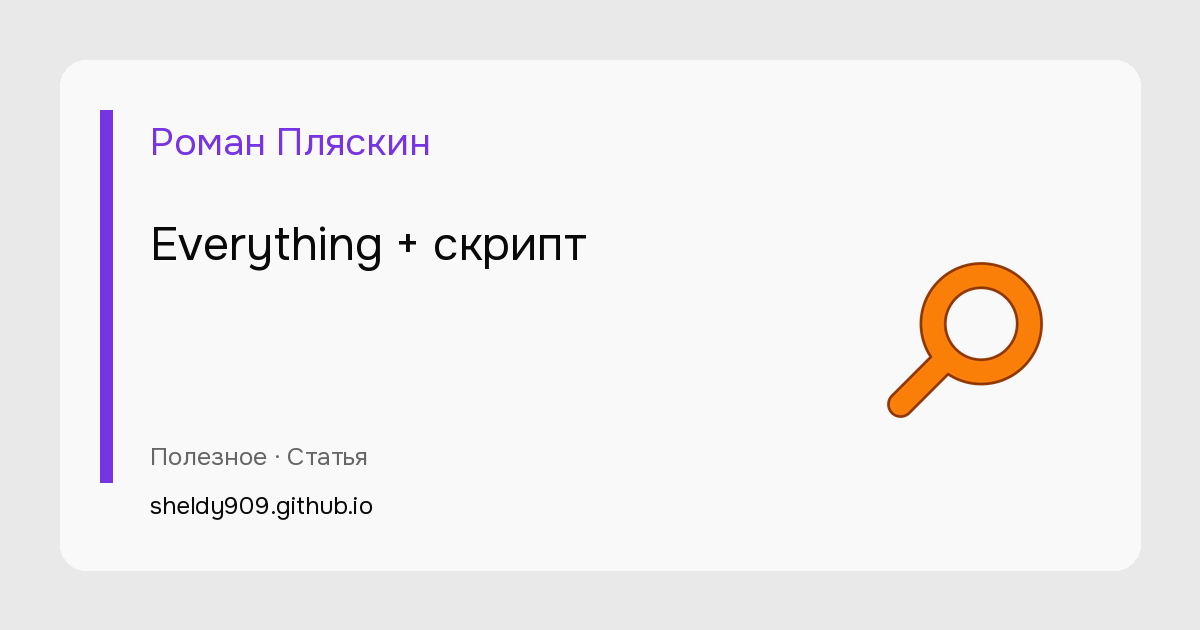
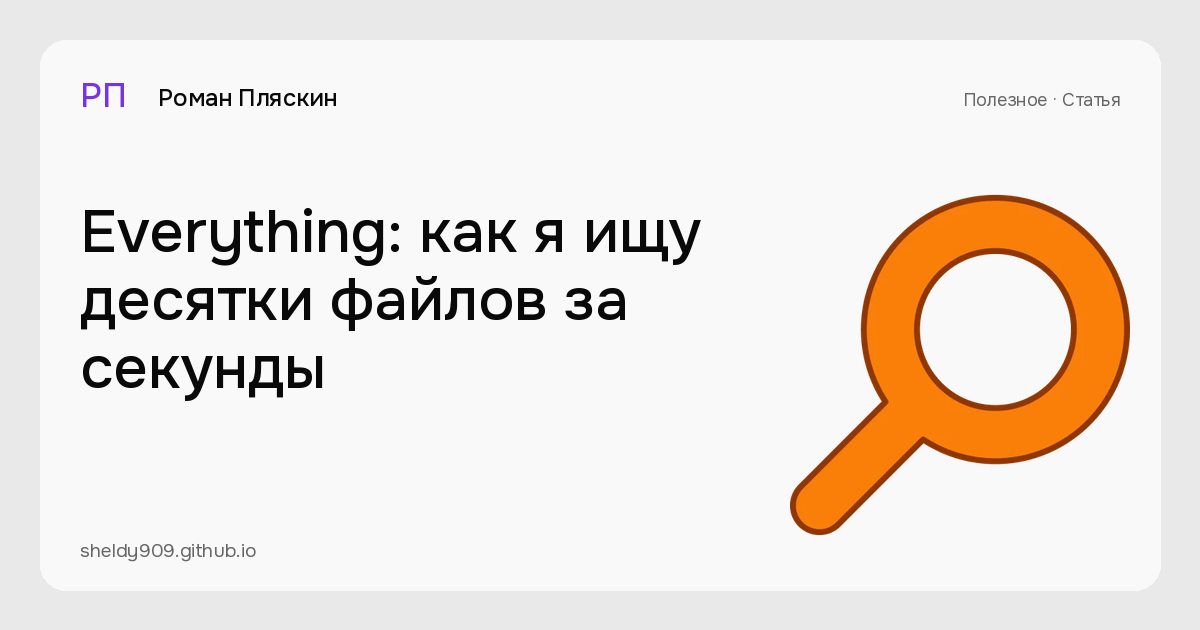
Обновление

diff --git a/cv/index.html b/cv/index.html
@@ -7,10 +7,10 @@
 <link rel="canonical" href="https://sheldy909.github.io/cv/">
 <meta property="og:type" content="website"><meta property="og:locale" content="ru_RU"><meta property="og:site_name" content="Роман Пляскин">
 <meta property="og:title" content="Резюме — Роман Пляскин"><meta property="og:description" content="Опыт работы, образование и контакты Романа Пляскина — графического дизайнера."><meta property="og:url" content="https://sheldy909.github.io/cv/">
-<meta property="og:image" content="https://sheldy909.github.io/og-image.png"><meta property="og:image:width" content="1200"><meta property="og:image:height" content="630"><meta property="og:image:alt" content="Роман Пляскин — графический дизайнер">
-<meta name="twitter:card" content="summary_large_image"><meta name="twitter:title" content="Резюме — Роман Пляскин"><meta name="twitter:description" content="Опыт работы, образование и контакты Романа Пляскина — графического дизайнера."><meta name="twitter:image" content="https://sheldy909.github.io/og-image.png">
+<meta property="og:image" content="https://sheldy909.github.io/assets/og/cv.png?v=2def9b8975"><meta property="og:image:width" content="1200"><meta property="og:image:height" content="630"><meta property="og:image:alt" content="Резюме — Роман Пляскин">
+<meta name="twitter:card" content="summary_large_image"><meta name="twitter:title" content="Резюме — Роман Пляскин"><meta name="twitter:description" content="Опыт работы, образование и контакты Романа Пляскина — графического дизайнера."><meta name="twitter:image" content="https://sheldy909.github.io/assets/og/cv.png?v=2def9b8975">
 <link rel="icon" href="/favicon.svg?v=8acaf1055971" type="image/svg+xml"><link rel="apple-touch-icon" href="/apple-touch-icon.png?v=e080b84c06">
-<meta name="theme-color" content="#e9e9e9"><link rel="stylesheet" href="/site.0860960565e0.css"><script defer src="/site.811ce50bc063.js"></script>
+<meta name="theme-color" content="#e9e9e9"><link rel="stylesheet" href="/site.169d4aabdb8a.css"><script defer src="/site.811ce50bc063.js"></script>
 </head><body id="top"><a class="skip-link" href="#content">Перейти к содержимому</a><div class="main-wrapper"><div class="main"><header class="div header">
 <a class="link-block person" href="/">
 <div class="image person-photo">
@@ -37,10 +37,10 @@
 </p>
 </div>
 <div class="div body-gallery">
-<div class="image cv-photo">
-<img alt="Фото в резюме" class="image__img" src="/assets/095f160c035d3f3b30.webp" width="1440" height="938" decoding="async" loading="eager" srcset="/assets/095f160c035d3f3b30-480.webp 480w, /assets/095f160c035d3f3b30-960.webp 960w, /assets/095f160c035d3f3b30.webp 1440w" sizes="(max-width:1199px) 92vw, 59vw">
+
+<div class="div cv-summary"><div class="image cv-photo">
+<img alt="Фото в резюме" class="image__img" decoding="async" height="938" loading="eager" sizes="(max-width:1199px) 92vw, 59vw" src="/assets/095f160c035d3f3b30.webp" srcset="/assets/095f160c035d3f3b30-480.webp 480w, /assets/095f160c035d3f3b30-960.webp 960w, /assets/095f160c035d3f3b30.webp 1440w" width="1440"/>
 </div>
-<div class="div cv-summary">
 <div class="div card-cv">
 <div class="div cv-identity">
 <h2 class="text text-accent cv-profile-title">
@@ -59,7 +59,6 @@
 <span class="text-block-wrap-div">26 лет</span>
 </div>
 </div>
-
 <div class="div cv-bio">
 <div class="text txt">
 <span class="text-block-wrap-div">Проживание</span>
@@ -68,7 +67,6 @@
 <span class="text-block-wrap-div">Воронеж</span>
 </div>
 </div>
-
 <div class="div cv-bio">
 <div class="text txt">
 <span class="text-block-wrap-div">Контакты</span>
@@ -87,6 +85,8 @@
 </div>
 </div>
 </div>
+
+</div>
 <div class="div card-cv">
 <h2 class="text cv-section-title">
 <span class="text-block-wrap-div">О себе</span>
@@ -100,7 +100,6 @@
 </div>
 </div>
 </div>
-</div>
 <div class="div card-cv">
 <h2 class="text cv-section-title">
 <span class="text-block-wrap-div">Опыт работы</span>
@@ -108,9 +107,9 @@
 <div class="div cv-entry">
 <div class="div cv-entry-heading">
 <h3 class="text cv-entry-title">
-<span class="text-block-wrap-div">Группа компаний «Самсон»</span>
+<span class="text-block-wrap-div">Старший художник-дизайнер</span>
 </h3>
-<div class="div cv-entry-meta">
+<div class="div cv-entry-meta"><span class="cv-company">Группа компаний «Самсон»</span>
 <div class="text text-muted card-cv-txt">
 <span class="text-block-wrap-div">Декабрь 2022 — Настоящее время</span>
 </div>
@@ -119,9 +118,7 @@
 </div>
 </div>
 </div>
-<div class="text cv-post">
-<span class="text-block-wrap-div">Старший художник-дизайнер</span>
-</div>
+
 <div class="div paragraph">
 <div class="text txt">
 <span class="text-block-wrap-div">Начал работу в компании в роли дизайнера карточек для маркетплейсов, впоследствии вырос до старшего дизайнера, после чего круг моих обязанностей заметно расширился. Взял на себя часть организационных задач: разработал эффективные шаблоны, значительно ускорявшие выполнение проектов, реорганизовал систему хранения данных, внедрив логичную структуру папок, что улучшило поиск и работу с файлами, а также написал внутреннюю памятку для дизайнеров — с ключевыми моментами, которые помогают быстро включиться в работу. Активно внедрял нейросети в рабочие процессы: с их помощью писал скрипты для Photoshop и разрабатывал внутренние сайты для удобной отчётности и работы с инструментами — всё это заметно сократило рутину внутри команды. Этот опыт сформировал навык управления командой и выстраивания внутренних процессов.</span>
@@ -147,9 +144,9 @@
 <div class="div cv-entry">
 <div class="div cv-entry-heading">
 <h3 class="text cv-entry-title">
-<span class="text-block-wrap-div">Воронежский городской портал 36on.ru</span>
+<span class="text-block-wrap-div">Графический дизайнер</span>
 </h3>
-<div class="div cv-entry-meta">
+<div class="div cv-entry-meta"><span class="cv-company">Воронежский городской портал 36on.ru</span>
 <div class="text text-muted card-cv-txt">
 <span class="text-block-wrap-div">Фриланс с 2020 года</span>
 </div>
@@ -158,9 +155,7 @@
 </div>
 </div>
 </div>
-<div class="text cv-post">
-<span class="text-block-wrap-div">Графический дизайнер</span>
-</div>
+
 <div class="div paragraph">
 <div class="text txt">
 <span class="text-block-wrap-div">Начинал с разработки баннеров для сайта. Со временем круг задач расширился до комплексного дизайна для крупных городских мероприятий и госструктур Воронежской области. Работал в двух направлениях параллельно: цифровое — рекламные баннеры для сайтов и соцсетей, и печатное — листовки, плакаты, баннеры, таблички, мерч и др.</span>
@@ -177,9 +172,9 @@
 <div class="div cv-entry">
 <div class="div cv-entry-heading">
 <h3 class="text cv-entry-title">
-<span class="text-block-wrap-div">Автолегион-31</span>
+<span class="text-block-wrap-div">Графический дизайнер</span>
 </h3>
-<div class="div cv-entry-meta">
+<div class="div cv-entry-meta"><span class="cv-company">Автолегион-31</span>
 <div class="text text-muted card-cv-txt">
 <span class="text-block-wrap-div">Фриланс с 2014 года</span>
 </div>
@@ -188,9 +183,7 @@
 </div>
 </div>
 </div>
-<div class="text cv-post">
-<span class="text-block-wrap-div">Графический дизайнер</span>
-</div>
+
 <div class="div paragraph">
 <div class="text txt">
 <span class="text-block-wrap-div">С этого места начался мой профессиональный путь в дизайне. Работал с рекламным агентством, выполняя широкий спектр задач: разработка листовок, визиток, баннеров, вывесок и подготовка макетов к печати. Получил практический опыт полного цикла работы — от общения с клиентом до подготовки финальных файлов для типографии.</span>

diff --git a/site.169d4aabdb8a.css b/site.169d4aabdb8a.css
@@ -75,7 +75,7 @@ a:hover{text-decoration:none;}
 .cv-contacts{width: auto;display: flex;flex-direction: column;row-gap: calc(var(--layout-unit) * 0.47);align-items: flex-end;}
 .contact-link:hover{color: var(--color-accent);}
 .cv-entry-group{display: flex;flex-direction: column;}
-.cv-entry-meta{display: flex;flex-direction: column;}
+.cv-entry-meta{display:flex;flex-direction:row;align-items:center;flex-wrap:wrap;}
 .cv-entry-heading{display: flex;flex-direction: column;}
 .cv-entry{display: flex;align-items: flex-start;flex-direction: column;}
 @media     (max-width:1199px) {.cv-summary{flex-direction: column;row-gap: calc(var(--layout-unit) * 0.94);}}
@@ -341,12 +341,12 @@ body,.main{font-size:var(--fs-body);}
 .about-column.body{max-width:var(--read-width);}
 @media (max-width:767px){.site-navigation.header-menu{width:100%;gap:12px 16px;}}
 /* Stage 2: CV roles match semantic heading levels; text links are explicit. */
-:root{--fs-cv-section:1.5rem;--fs-cv-entry:1.25rem;--fs-cv-group:1rem;}
+:root{--fs-cv-section:var(--fs-prose-h2);--fs-cv-entry:var(--fs-prose-h3);--fs-cv-group:var(--fs-ui);}
 .about-column .cv-section-title{font-size:var(--fs-cv-section);font-weight:500;line-height:1.3;margin:0;}
 .about-column .cv-entry-title{font-size:var(--fs-cv-entry);font-weight:500;line-height:1.3;margin:0;}
 .about-column .cv-group-title{font-size:var(--fs-cv-group);font-weight:500;line-height:1.4;margin:0;}
-.cv-profile-title{font-size:var(--fs-h2);font-weight:500;line-height:1.25;}
-main a.content-link{color:var(--color-accent);text-decoration-line:underline;text-decoration-thickness:1px;text-underline-offset:.2em;}
+.cv-profile-title{font-size:var(--fs-prose-h2);font-weight:500;line-height:1.25;}
+main a.content-link{color:var(--color-accent);text-decoration:none;}
 main a.content-link:hover{color:var(--color-accent-hover);}
 .cv-list{display:block;list-style:none;margin:0;padding:0;}
 .cv-list li{position:relative;padding-inline-start:1.25em;}
@@ -421,17 +421,17 @@ video::-webkit-media-controls,video::-webkit-media-controls-start-playback-butto
 .main>.footer{width:100%;max-width:var(--content-width);margin-inline:auto;}
 @media (max-width:767px){:root{--read-width:100%;}}
 /* Shared proximity: inside a group < between groups < between sections. */
-:root{--gap-related:clamp(12px,.833333vw,16px);--gap-paragraph:clamp(16px,1.111111vw,24px);--gap-group:clamp(24px,2.222222vw,40px);--gap-section:clamp(48px,4.444444vw,80px);}
+:root{--gap-related:clamp(8px,.625vw,12px);--gap-paragraph:clamp(14px,1.111111vw,20px);--gap-group:clamp(20px,1.666667vw,28px);--gap-section:clamp(32px,2.777778vw,48px);}
 .body-h,.main>.body>.body-h:not(.detail-heading),.home-page .home-intro,.main>.detail-layout>.detail-heading{gap:var(--gap-related);}
 .main>.body:not(.detail-layout),.body-gallery,.main>.detail-layout,.home-page .home-section:not(.home-intro){gap:var(--gap-group);}
-.home-page>.body,.about-column .body-gallery{gap:var(--gap-section);}
-.detail-more{gap:var(--gap-group);}
+.home-page>.body{gap:var(--gap-section);}
+.detail-more{gap:var(--gap-paragraph);}
 .detail-more{margin-top:calc(var(--gap-section) - var(--gap-group));padding-top:var(--gap-group);border-top:1px solid var(--color-divider);}
 .main>.footer{margin-top:var(--gap-section);}
-.paragraph,.cv-entry,.cv-summary,.about-column .cv-summary,.about-column .card-cv>div:not(.text){gap:var(--gap-paragraph);}
+.paragraph,.cv-entry,.about-column .card-cv>div:not(.text){gap:var(--gap-paragraph);}
 .cv-entry-heading,.cv-entry-group,.cv-entry-meta,.about-column .card-cv .paragraph,.about-column .paragraph>div:not(.text),.about-column .cv-identity,.card-text-useful{gap:var(--gap-related);}
 .about-column .cv-bio{gap:var(--gap-paragraph);}
-.card-cv>.cv-entry+.cv-entry{margin-top:var(--gap-group);}
+.card-cv>.cv-entry+.cv-entry{margin-top:var(--gap-paragraph);}
 .about-column .cv-section-title,.about-column .cv-entry-title,.about-column .cv-group-title{color:var(--color-text);font-weight:500;}
 .about-column .cv-post{color:var(--color-text);}
 .case>.text-block-wrap-div>*{margin-block:0;}
@@ -441,3 +441,11 @@ video::-webkit-media-controls,video::-webkit-media-controls-start-playback-butto
 .case>.text-block-wrap-div>:is(h2,h3)+*{margin-top:var(--gap-related);}
 .case>.text-block-wrap-div>figure{margin-top:var(--gap-group);margin-inline:auto;}
 .case>.text-block-wrap-div>:first-child{margin-top:0;}
+.about-column .body-gallery{gap:var(--gap-group);}
+.about-column .cv-summary{display:flex;flex-direction:column;gap:var(--gap-related);}
+.about-column .cv-details{gap:var(--gap-related);}
+.about-column .cv-bio>.text:first-child{color:var(--color-text-muted);font-size:var(--fs-caption);}
+.about-column .cv-contacts .contact-link{font-size:var(--fs-ui);text-decoration:none;}
+.about-column .cv-entry-meta{gap:var(--gap-related);font-size:var(--fs-caption);line-height:1.4;}
+.cv-company{display:inline-block;padding:.25em .7em;border-radius:var(--radius);background:var(--color-bg);color:var(--color-text);font-size:var(--fs-caption);line-height:1.4;}
+.card-image-useful{max-height:200px;}

diff --git a/portfolio/seriya-detskoj-kancelyarii-superkoty/index.html b/portfolio/seriya-detskoj-kancelyarii-superkoty/index.html
@@ -7,10 +7,10 @@
 <link rel="canonical" href="https://sheldy909.github.io/portfolio/seriya-detskoj-kancelyarii-superkoty/">
 <meta property="og:type" content="website"><meta property="og:locale" content="ru_RU"><meta property="og:site_name" content="Роман Пляскин">
 <meta property="og:title" content="Серия детской канцелярии «СуперКоты» — Роман Пляскин"><meta property="og:description" content="Дизайн серии детской канцелярии «СуперКоты»: персонажи, оформление и готовые изделия."><meta property="og:url" content="https://sheldy909.github.io/portfolio/seriya-detskoj-kancelyarii-superkoty/">
-<meta property="og:image" content="https://sheldy909.github.io/assets/og/seriya-detskoj-kancelyarii-superkoty.png"><meta property="og:image:width" content="1200"><meta property="og:image:height" content="630"><meta property="og:image:alt" content="Серия детской канцелярии «СуперКоты»">
-<meta name="twitter:card" content="summary_large_image"><meta name="twitter:title" content="Серия детской канцелярии «СуперКоты» — Роман Пляскин"><meta name="twitter:description" content="Дизайн серии детской канцелярии «СуперКоты»: персонажи, оформление и готовые изделия."><meta name="twitter:image" content="https://sheldy909.github.io/assets/og/seriya-detskoj-kancelyarii-superkoty.png">
+<meta property="og:image" content="https://sheldy909.github.io/assets/og/seriya-detskoj-kancelyarii-superkoty.png?v=5329af23a5"><meta property="og:image:width" content="1200"><meta property="og:image:height" content="630"><meta property="og:image:alt" content="Серия детской канцелярии «СуперКоты» — Роман Пляскин">
+<meta name="twitter:card" content="summary_large_image"><meta name="twitter:title" content="Серия детской канцелярии «СуперКоты» — Роман Пляскин"><meta name="twitter:description" content="Дизайн серии детской канцелярии «СуперКоты»: персонажи, оформление и готовые изделия."><meta name="twitter:image" content="https://sheldy909.github.io/assets/og/seriya-detskoj-kancelyarii-superkoty.png?v=5329af23a5">
 <link rel="icon" href="/favicon.svg?v=8acaf1055971" type="image/svg+xml"><link rel="apple-touch-icon" href="/apple-touch-icon.png?v=e080b84c06">
-<meta name="theme-color" content="#e9e9e9"><link rel="stylesheet" href="/site.0860960565e0.css"><script defer src="/site.811ce50bc063.js"></script>
+<meta name="theme-color" content="#e9e9e9"><link rel="stylesheet" href="/site.169d4aabdb8a.css"><script defer src="/site.811ce50bc063.js"></script>
 </head><body id="top"><a class="skip-link" href="#content">Перейти к содержимому</a><div class="main-wrapper"><div class="main"><header class="div header">
 <a class="link-block person" href="/">
 <div class="image person-photo">

diff --git a/portfolio/vitrina-magazina-na-yam---gk-samson/index.html b/portfolio/vitrina-magazina-na-yam---gk-samson/index.html
@@ -7,10 +7,10 @@
 <link rel="canonical" href="https://sheldy909.github.io/portfolio/vitrina-magazina-na-yam---gk-samson/">
 <meta property="og:type" content="website"><meta property="og:locale" content="ru_RU"><meta property="og:site_name" content="Роман Пляскин">
 <meta property="og:title" content="Витрина магазина на ЯМ — ГК САМСОН — Роман Пляскин"><meta property="og:description" content="Оформление витрины магазина ГК «Самсон» на Яндекс Маркете: визуальные материалы проекта."><meta property="og:url" content="https://sheldy909.github.io/portfolio/vitrina-magazina-na-yam---gk-samson/">
-<meta property="og:image" content="https://sheldy909.github.io/assets/og/vitrina-magazina-na-yam---gk-samson.png"><meta property="og:image:width" content="1200"><meta property="og:image:height" content="630"><meta property="og:image:alt" content="Витрина магазина на ЯМ — ГК САМСОН">
-<meta name="twitter:card" content="summary_large_image"><meta name="twitter:title" content="Витрина магазина на ЯМ — ГК САМСОН — Роман Пляскин"><meta name="twitter:description" content="Оформление витрины магазина ГК «Самсон» на Яндекс Маркете: визуальные материалы проекта."><meta name="twitter:image" content="https://sheldy909.github.io/assets/og/vitrina-magazina-na-yam---gk-samson.png">
+<meta property="og:image" content="https://sheldy909.github.io/assets/og/vitrina-magazina-na-yam---gk-samson.png?v=b093cd1c44"><meta property="og:image:width" content="1200"><meta property="og:image:height" content="630"><meta property="og:image:alt" content="Витрина магазина на ЯМ — ГК САМСОН — Роман Пляскин">
+<meta name="twitter:card" content="summary_large_image"><meta name="twitter:title" content="Витрина магазина на ЯМ — ГК САМСОН — Роман Пляскин"><meta name="twitter:description" content="Оформление витрины магазина ГК «Самсон» на Яндекс Маркете: визуальные материалы проекта."><meta name="twitter:image" content="https://sheldy909.github.io/assets/og/vitrina-magazina-na-yam---gk-samson.png?v=b093cd1c44">
 <link rel="icon" href="/favicon.svg?v=8acaf1055971" type="image/svg+xml"><link rel="apple-touch-icon" href="/apple-touch-icon.png?v=e080b84c06">
-<meta name="theme-color" content="#e9e9e9"><link rel="stylesheet" href="/site.0860960565e0.css"><script defer src="/site.811ce50bc063.js"></script>
+<meta name="theme-color" content="#e9e9e9"><link rel="stylesheet" href="/site.169d4aabdb8a.css"><script defer src="/site.811ce50bc063.js"></script>
 </head><body id="top"><a class="skip-link" href="#content">Перейти к содержимому</a><div class="main-wrapper"><div class="main"><header class="div header">
 <a class="link-block person" href="/">
 <div class="image person-photo">

diff --git a/useful/quicklook/index.html b/useful/quicklook/index.html
@@ -7,10 +7,10 @@
 <link rel="canonical" href="https://sheldy909.github.io/useful/quicklook/">
 <meta property="og:type" content="article"><meta property="og:locale" content="ru_RU"><meta property="og:site_name" content="Роман Пляскин">
 <meta property="og:title" content="QuickLook: одна кнопка, которая избавила меня от ненужных открытий Photoshop — Роман Пляскин"><meta property="og:description" content="Как QuickLook помогает просматривать файлы по нажатию пробела и экономить время в работе."><meta property="og:url" content="https://sheldy909.github.io/useful/quicklook/">
-<meta property="og:image" content="https://sheldy909.github.io/assets/og/quicklook.png"><meta property="og:image:width" content="1200"><meta property="og:image:height" content="630"><meta property="og:image:alt" content="QuickLook">
-<meta name="twitter:card" content="summary_large_image"><meta name="twitter:title" content="QuickLook: одна кнопка, которая избавила меня от ненужных открытий Photoshop — Роман Пляскин"><meta name="twitter:description" content="Как QuickLook помогает просматривать файлы по нажатию пробела и экономить время в работе."><meta name="twitter:image" content="https://sheldy909.github.io/assets/og/quicklook.png">
+<meta property="og:image" content="https://sheldy909.github.io/assets/og/quicklook.png?v=b13a5b57a1"><meta property="og:image:width" content="1200"><meta property="og:image:height" content="630"><meta property="og:image:alt" content="QuickLook: одна кнопка, которая избавила меня от ненужных открытий Photoshop — Роман Пляскин">
+<meta name="twitter:card" content="summary_large_image"><meta name="twitter:title" content="QuickLook: одна кнопка, которая избавила меня от ненужных открытий Photoshop — Роман Пляскин"><meta name="twitter:description" content="Как QuickLook помогает просматривать файлы по нажатию пробела и экономить время в работе."><meta name="twitter:image" content="https://sheldy909.github.io/assets/og/quicklook.png?v=b13a5b57a1">
 <link rel="icon" href="/favicon.svg?v=8acaf1055971" type="image/svg+xml"><link rel="apple-touch-icon" href="/apple-touch-icon.png?v=e080b84c06">
-<meta name="theme-color" content="#e9e9e9"><link rel="stylesheet" href="/site.0860960565e0.css"><script defer src="/site.811ce50bc063.js"></script>
+<meta name="theme-color" content="#e9e9e9"><link rel="stylesheet" href="/site.169d4aabdb8a.css"><script defer src="/site.811ce50bc063.js"></script>
 </head><body id="top"><a class="skip-link" href="#content">Перейти к содержимому</a><div class="main-wrapper"><div class="main"><header class="div header">
 <a class="link-block person" href="/">
 <div class="image person-photo">

diff --git a/index.html b/index.html
@@ -7,10 +7,10 @@
 <link rel="canonical" href="https://sheldy909.github.io/">
 <meta property="og:type" content="website"><meta property="og:locale" content="ru_RU"><meta property="og:site_name" content="Роман Пляскин">
 <meta property="og:title" content="Роман Пляскин — графический дизайнер"><meta property="og:description" content="Делаю айдентику, упаковку и сайты. Автоматизирую рабочие задачи с помощью скриптов и небольших приложений. Кейсы, контакты и резюме."><meta property="og:url" content="https://sheldy909.github.io/">
-<meta property="og:image" content="https://sheldy909.github.io/og-image.png"><meta property="og:image:width" content="1200"><meta property="og:image:height" content="630"><meta property="og:image:alt" content="Роман Пляскин — графический дизайнер">
-<meta name="twitter:card" content="summary_large_image"><meta name="twitter:title" content="Роман Пляскин — графический дизайнер"><meta name="twitter:description" content="Делаю айдентику, упаковку и сайты. Автоматизирую рабочие задачи с помощью скриптов и небольших приложений. Кейсы, контакты и резюме."><meta name="twitter:image" content="https://sheldy909.github.io/og-image.png">
+<meta property="og:image" content="https://sheldy909.github.io/og-image.png?v=55103091e4"><meta property="og:image:width" content="1200"><meta property="og:image:height" content="630"><meta property="og:image:alt" content="Графический дизайнер — Роман Пляскин">
+<meta name="twitter:card" content="summary_large_image"><meta name="twitter:title" content="Роман Пляскин — графический дизайнер"><meta name="twitter:description" content="Делаю айдентику, упаковку и сайты. Автоматизирую рабочие задачи с помощью скриптов и небольших приложений. Кейсы, контакты и резюме."><meta name="twitter:image" content="https://sheldy909.github.io/og-image.png?v=55103091e4">
 <link rel="icon" href="/favicon.svg?v=8acaf1055971" type="image/svg+xml"><link rel="apple-touch-icon" href="/apple-touch-icon.png?v=e080b84c06">
-<meta name="theme-color" content="#e9e9e9"><link rel="stylesheet" href="/site.0860960565e0.css"><script defer src="/site.811ce50bc063.js"></script>
+<meta name="theme-color" content="#e9e9e9"><link rel="stylesheet" href="/site.169d4aabdb8a.css"><script defer src="/site.811ce50bc063.js"></script>
 </head><body id="top"><a class="skip-link" href="#content">Перейти к содержимому</a><div class="main-wrapper"><div class="main home-page"><header class="div header">
 <a class="link-block person" href="/">
 <div class="image person-photo">

diff --git a/useful/powertoys/index.html b/useful/powertoys/index.html
@@ -7,10 +7,10 @@
 <link rel="canonical" href="https://sheldy909.github.io/useful/powertoys/">
 <meta property="og:type" content="article"><meta property="og:locale" content="ru_RU"><meta property="og:site_name" content="Роман Пляскин">
 <meta property="og:title" content="PowerToys: набор утилит под повседневные задачи — Роман Пляскин"><meta property="og:description" content="Как я использую PowerToys для работы с цветом, создания папок и массового переименования файлов."><meta property="og:url" content="https://sheldy909.github.io/useful/powertoys/">
-<meta property="og:image" content="https://sheldy909.github.io/assets/og/powertoys.png"><meta property="og:image:width" content="1200"><meta property="og:image:height" content="630"><meta property="og:image:alt" content="PowerToys">
-<meta name="twitter:card" content="summary_large_image"><meta name="twitter:title" content="PowerToys: набор утилит под повседневные задачи — Роман Пляскин"><meta name="twitter:description" content="Как я использую PowerToys для работы с цветом, создания папок и массового переименования файлов."><meta name="twitter:image" content="https://sheldy909.github.io/assets/og/powertoys.png">
+<meta property="og:image" content="https://sheldy909.github.io/assets/og/powertoys.png?v=bfe24ac1b6"><meta property="og:image:width" content="1200"><meta property="og:image:height" content="630"><meta property="og:image:alt" content="PowerToys: набор утилит под повседневные задачи — Роман Пляскин">
+<meta name="twitter:card" content="summary_large_image"><meta name="twitter:title" content="PowerToys: набор утилит под повседневные задачи — Роман Пляскин"><meta name="twitter:description" content="Как я использую PowerToys для работы с цветом, создания папок и массового переименования файлов."><meta name="twitter:image" content="https://sheldy909.github.io/assets/og/powertoys.png?v=bfe24ac1b6">
 <link rel="icon" href="/favicon.svg?v=8acaf1055971" type="image/svg+xml"><link rel="apple-touch-icon" href="/apple-touch-icon.png?v=e080b84c06">
-<meta name="theme-color" content="#e9e9e9"><link rel="stylesheet" href="/site.0860960565e0.css"><script defer src="/site.811ce50bc063.js"></script>
+<meta name="theme-color" content="#e9e9e9"><link rel="stylesheet" href="/site.169d4aabdb8a.css"><script defer src="/site.811ce50bc063.js"></script>
 </head><body id="top"><a class="skip-link" href="#content">Перейти к содержимому</a><div class="main-wrapper"><div class="main"><header class="div header">
 <a class="link-block person" href="/">
 <div class="image person-photo">

diff --git a/useful/fontbase/index.html b/useful/fontbase/index.html
@@ -7,10 +7,10 @@
 <link rel="canonical" href="https://sheldy909.github.io/useful/fontbase/">
 <meta property="og:type" content="article"><meta property="og:locale" content="ru_RU"><meta property="og:site_name" content="Роман Пляскин">
 <meta property="og:title" content="FontBase: как я решил проблему со шрифтами в команде дизайнеров — Роман Пляскин"><meta property="og:description" content="Как я решил проблему со шрифтами в команде дизайнеров с помощью FontBase."><meta property="og:url" content="https://sheldy909.github.io/useful/fontbase/">
-<meta property="og:image" content="https://sheldy909.github.io/assets/og/fontbase.png"><meta property="og:image:width" content="1200"><meta property="og:image:height" content="630"><meta property="og:image:alt" content="FontBase">
-<meta name="twitter:card" content="summary_large_image"><meta name="twitter:title" content="FontBase: как я решил проблему со шрифтами в команде дизайнеров — Роман Пляскин"><meta name="twitter:description" content="Как я решил проблему со шрифтами в команде дизайнеров с помощью FontBase."><meta name="twitter:image" content="https://sheldy909.github.io/assets/og/fontbase.png">
+<meta property="og:image" content="https://sheldy909.github.io/assets/og/fontbase.png?v=afca9e48b4"><meta property="og:image:width" content="1200"><meta property="og:image:height" content="630"><meta property="og:image:alt" content="FontBase: как я решил проблему со шрифтами в команде дизайнеров — Роман Пляскин">
+<meta name="twitter:card" content="summary_large_image"><meta name="twitter:title" content="FontBase: как я решил проблему со шрифтами в команде дизайнеров — Роман Пляскин"><meta name="twitter:description" content="Как я решил проблему со шрифтами в команде дизайнеров с помощью FontBase."><meta name="twitter:image" content="https://sheldy909.github.io/assets/og/fontbase.png?v=afca9e48b4">
 <link rel="icon" href="/favicon.svg?v=8acaf1055971" type="image/svg+xml"><link rel="apple-touch-icon" href="/apple-touch-icon.png?v=e080b84c06">
-<meta name="theme-color" content="#e9e9e9"><link rel="stylesheet" href="/site.0860960565e0.css"><script defer src="/site.811ce50bc063.js"></script>
+<meta name="theme-color" content="#e9e9e9"><link rel="stylesheet" href="/site.169d4aabdb8a.css"><script defer src="/site.811ce50bc063.js"></script>
 </head><body id="top"><a class="skip-link" href="#content">Перейти к содержимому</a><div class="main-wrapper"><div class="main"><header class="div header">
 <a class="link-block person" href="/">
 <div class="image person-photo">

diff --git a/useful/everything/index.html b/useful/everything/index.html
@@ -7,10 +7,10 @@
 <link rel="canonical" href="https://sheldy909.github.io/useful/everything/">
 <meta property="og:type" content="article"><meta property="og:locale" content="ru_RU"><meta property="og:site_name" content="Роман Пляскин">
 <meta property="og:title" content="Everything: как я ищу десятки файлов за секунды — Роман Пляскин"><meta property="og:description" content="Быстрый поиск файлов с Everything и .bat-скрипт для поиска в рабочей базе."><meta property="og:url" content="https://sheldy909.github.io/useful/everything/">
-<meta property="og:image" content="https://sheldy909.github.io/assets/og/everything.png"><meta property="og:image:width" content="1200"><meta property="og:image:height" content="630"><meta property="og:image:alt" content="Everything + скрипт">
-<meta name="twitter:card" content="summary_large_image"><meta name="twitter:title" content="Everything: как я ищу десятки файлов за секунды — Роман Пляскин"><meta name="twitter:description" content="Быстрый поиск файлов с Everything и .bat-скрипт для поиска в рабочей базе."><meta name="twitter:image" content="https://sheldy909.github.io/assets/og/everything.png">
+<meta property="og:image" content="https://sheldy909.github.io/assets/og/everything.png?v=74b19c1084"><meta property="og:image:width" content="1200"><meta property="og:image:height" content="630"><meta property="og:image:alt" content="Everything: как я ищу десятки файлов за секунды — Роман Пляскин">
+<meta name="twitter:card" content="summary_large_image"><meta name="twitter:title" content="Everything: как я ищу десятки файлов за секунды — Роман Пляскин"><meta name="twitter:description" content="Быстрый поиск файлов с Everything и .bat-скрипт для поиска в рабочей базе."><meta name="twitter:image" content="https://sheldy909.github.io/assets/og/everything.png?v=74b19c1084">
 <link rel="icon" href="/favicon.svg?v=8acaf1055971" type="image/svg+xml"><link rel="apple-touch-icon" href="/apple-touch-icon.png?v=e080b84c06">
-<meta name="theme-color" content="#e9e9e9"><link rel="stylesheet" href="/site.0860960565e0.css"><script defer src="/site.811ce50bc063.js"></script>
+<meta name="theme-color" content="#e9e9e9"><link rel="stylesheet" href="/site.169d4aabdb8a.css"><script defer src="/site.811ce50bc063.js"></script>
 </head><body id="top"><a class="skip-link" href="#content">Перейти к содержимому</a><div class="main-wrapper"><div class="main"><header class="div header">
 <a class="link-block person" href="/">
 <div class="image person-photo">

diff --git a/portfolio/index.html b/portfolio/index.html
@@ -7,10 +7,10 @@
 <link rel="canonical" href="https://sheldy909.github.io/portfolio/">
 <meta property="og:type" content="website"><meta property="og:locale" content="ru_RU"><meta property="og:site_name" content="Роман Пляскин">
 <meta property="og:title" content="Портфолио — Роман Пляскин"><meta property="og:description" content="Избранные проекты Романа Пляскина: графический дизайн, оформление магазинов и детская канцелярия."><meta property="og:url" content="https://sheldy909.github.io/portfolio/">
-<meta property="og:image" content="https://sheldy909.github.io/og-image.png"><meta property="og:image:width" content="1200"><meta property="og:image:height" content="630"><meta property="og:image:alt" content="Роман Пляскин — графический дизайнер">
-<meta name="twitter:card" content="summary_large_image"><meta name="twitter:title" content="Портфолио — Роман Пляскин"><meta name="twitter:description" content="Избранные проекты Романа Пляскина: графический дизайн, оформление магазинов и детская канцелярия."><meta name="twitter:image" content="https://sheldy909.github.io/og-image.png">
+<meta property="og:image" content="https://sheldy909.github.io/assets/og/portfolio.png?v=df820aa02f"><meta property="og:image:width" content="1200"><meta property="og:image:height" content="630"><meta property="og:image:alt" content="Портфолио — Роман Пляскин">
+<meta name="twitter:card" content="summary_large_image"><meta name="twitter:title" content="Портфолио — Роман Пляскин"><meta name="twitter:description" content="Избранные проекты Романа Пляскина: графический дизайн, оформление магазинов и детская канцелярия."><meta name="twitter:image" content="https://sheldy909.github.io/assets/og/portfolio.png?v=df820aa02f">
 <link rel="icon" href="/favicon.svg?v=8acaf1055971" type="image/svg+xml"><link rel="apple-touch-icon" href="/apple-touch-icon.png?v=e080b84c06">
-<meta name="theme-color" content="#e9e9e9"><link rel="stylesheet" href="/site.0860960565e0.css"><script defer src="/site.811ce50bc063.js"></script>
+<meta name="theme-color" content="#e9e9e9"><link rel="stylesheet" href="/site.169d4aabdb8a.css"><script defer src="/site.811ce50bc063.js"></script>
 </head><body id="top"><a class="skip-link" href="#content">Перейти к содержимому</a><div class="main-wrapper"><div class="main"><header class="div header">
 <a class="link-block person" href="/">
 <div class="image person-photo">

diff --git a/404.html b/404.html
@@ -7,10 +7,10 @@
 <meta name="robots" content="noindex"><link rel="canonical" href="https://sheldy909.github.io/404.html">
 <meta property="og:type" content="website"><meta property="og:locale" content="ru_RU"><meta property="og:site_name" content="Роман Пляскин">
 <meta property="og:title" content="Страница не найдена — Роман Пляскин"><meta property="og:description" content="Запрошенная страница не найдена. Перейдите на главную или в портфолио."><meta property="og:url" content="https://sheldy909.github.io/404.html">
-<meta property="og:image" content="https://sheldy909.github.io/og-image.png"><meta property="og:image:width" content="1200"><meta property="og:image:height" content="630"><meta property="og:image:alt" content="Роман Пляскин — графический дизайнер">
-<meta name="twitter:card" content="summary_large_image"><meta name="twitter:title" content="Страница не найдена — Роман Пляскин"><meta name="twitter:description" content="Запрошенная страница не найдена. Перейдите на главную или в портфолио."><meta name="twitter:image" content="https://sheldy909.github.io/og-image.png">
+<meta property="og:image" content="https://sheldy909.github.io/og-image.png?v=55103091e4"><meta property="og:image:width" content="1200"><meta property="og:image:height" content="630"><meta property="og:image:alt" content="Роман Пляскин — графический дизайнер">
+<meta name="twitter:card" content="summary_large_image"><meta name="twitter:title" content="Страница не найдена — Роман Пляскин"><meta name="twitter:description" content="Запрошенная страница не найдена. Перейдите на главную или в портфолио."><meta name="twitter:image" content="https://sheldy909.github.io/og-image.png?v=55103091e4">
 <link rel="icon" href="/favicon.svg?v=8acaf1055971" type="image/svg+xml"><link rel="apple-touch-icon" href="/apple-touch-icon.png?v=e080b84c06">
-<meta name="theme-color" content="#e9e9e9"><link rel="stylesheet" href="/site.0860960565e0.css"><script defer src="/site.811ce50bc063.js"></script>
+<meta name="theme-color" content="#e9e9e9"><link rel="stylesheet" href="/site.169d4aabdb8a.css"><script defer src="/site.811ce50bc063.js"></script>
 </head><body id="top"><a class="skip-link" href="#content">Перейти к содержимому</a><div class="main-wrapper"><div class="main"><header class="div header">
 <a class="link-block person" href="/">
 <div class="image person-photo">

diff --git a/useful/index.html b/useful/index.html
@@ -7,10 +7,10 @@
 <link rel="canonical" href="https://sheldy909.github.io/useful/">
 <meta property="og:type" content="website"><meta property="og:locale" content="ru_RU"><meta property="og:site_name" content="Роман Пляскин">
 <meta property="og:title" content="Полезное — Роман Пляскин"><meta property="og:description" content="Статьи о FontBase, PowerToys, QuickLook и Everything: инструменты и процессы, которые помогают мне работать."><meta property="og:url" content="https://sheldy909.github.io/useful/">
-<meta property="og:image" content="https://sheldy909.github.io/og-image.png"><meta property="og:image:width" content="1200"><meta property="og:image:height" content="630"><meta property="og:image:alt" content="Роман Пляскин — графический дизайнер">
-<meta name="twitter:card" content="summary_large_image"><meta name="twitter:title" content="Полезное — Роман Пляскин"><meta name="twitter:description" content="Статьи о FontBase, PowerToys, QuickLook и Everything: инструменты и процессы, которые помогают мне работать."><meta name="twitter:image" content="https://sheldy909.github.io/og-image.png">
+<meta property="og:image" content="https://sheldy909.github.io/assets/og/useful.png?v=6458d4d0a7"><meta property="og:image:width" content="1200"><meta property="og:image:height" content="630"><meta property="og:image:alt" content="Полезное — Роман Пляскин">
+<meta name="twitter:card" content="summary_large_image"><meta name="twitter:title" content="Полезное — Роман Пляскин"><meta name="twitter:description" content="Статьи о FontBase, PowerToys, QuickLook и Everything: инструменты и процессы, которые помогают мне работать."><meta name="twitter:image" content="https://sheldy909.github.io/assets/og/useful.png?v=6458d4d0a7">
 <link rel="icon" href="/favicon.svg?v=8acaf1055971" type="image/svg+xml"><link rel="apple-touch-icon" href="/apple-touch-icon.png?v=e080b84c06">
-<meta name="theme-color" content="#e9e9e9"><link rel="stylesheet" href="/site.0860960565e0.css"><script defer src="/site.811ce50bc063.js"></script>
+<meta name="theme-color" content="#e9e9e9"><link rel="stylesheet" href="/site.169d4aabdb8a.css"><script defer src="/site.811ce50bc063.js"></script>
 </head><body id="top"><a class="skip-link" href="#content">Перейти к содержимому</a><div class="main-wrapper"><div class="main"><header class="div header">
 <a class="link-block person" href="/">
 <div class="image person-photo">
